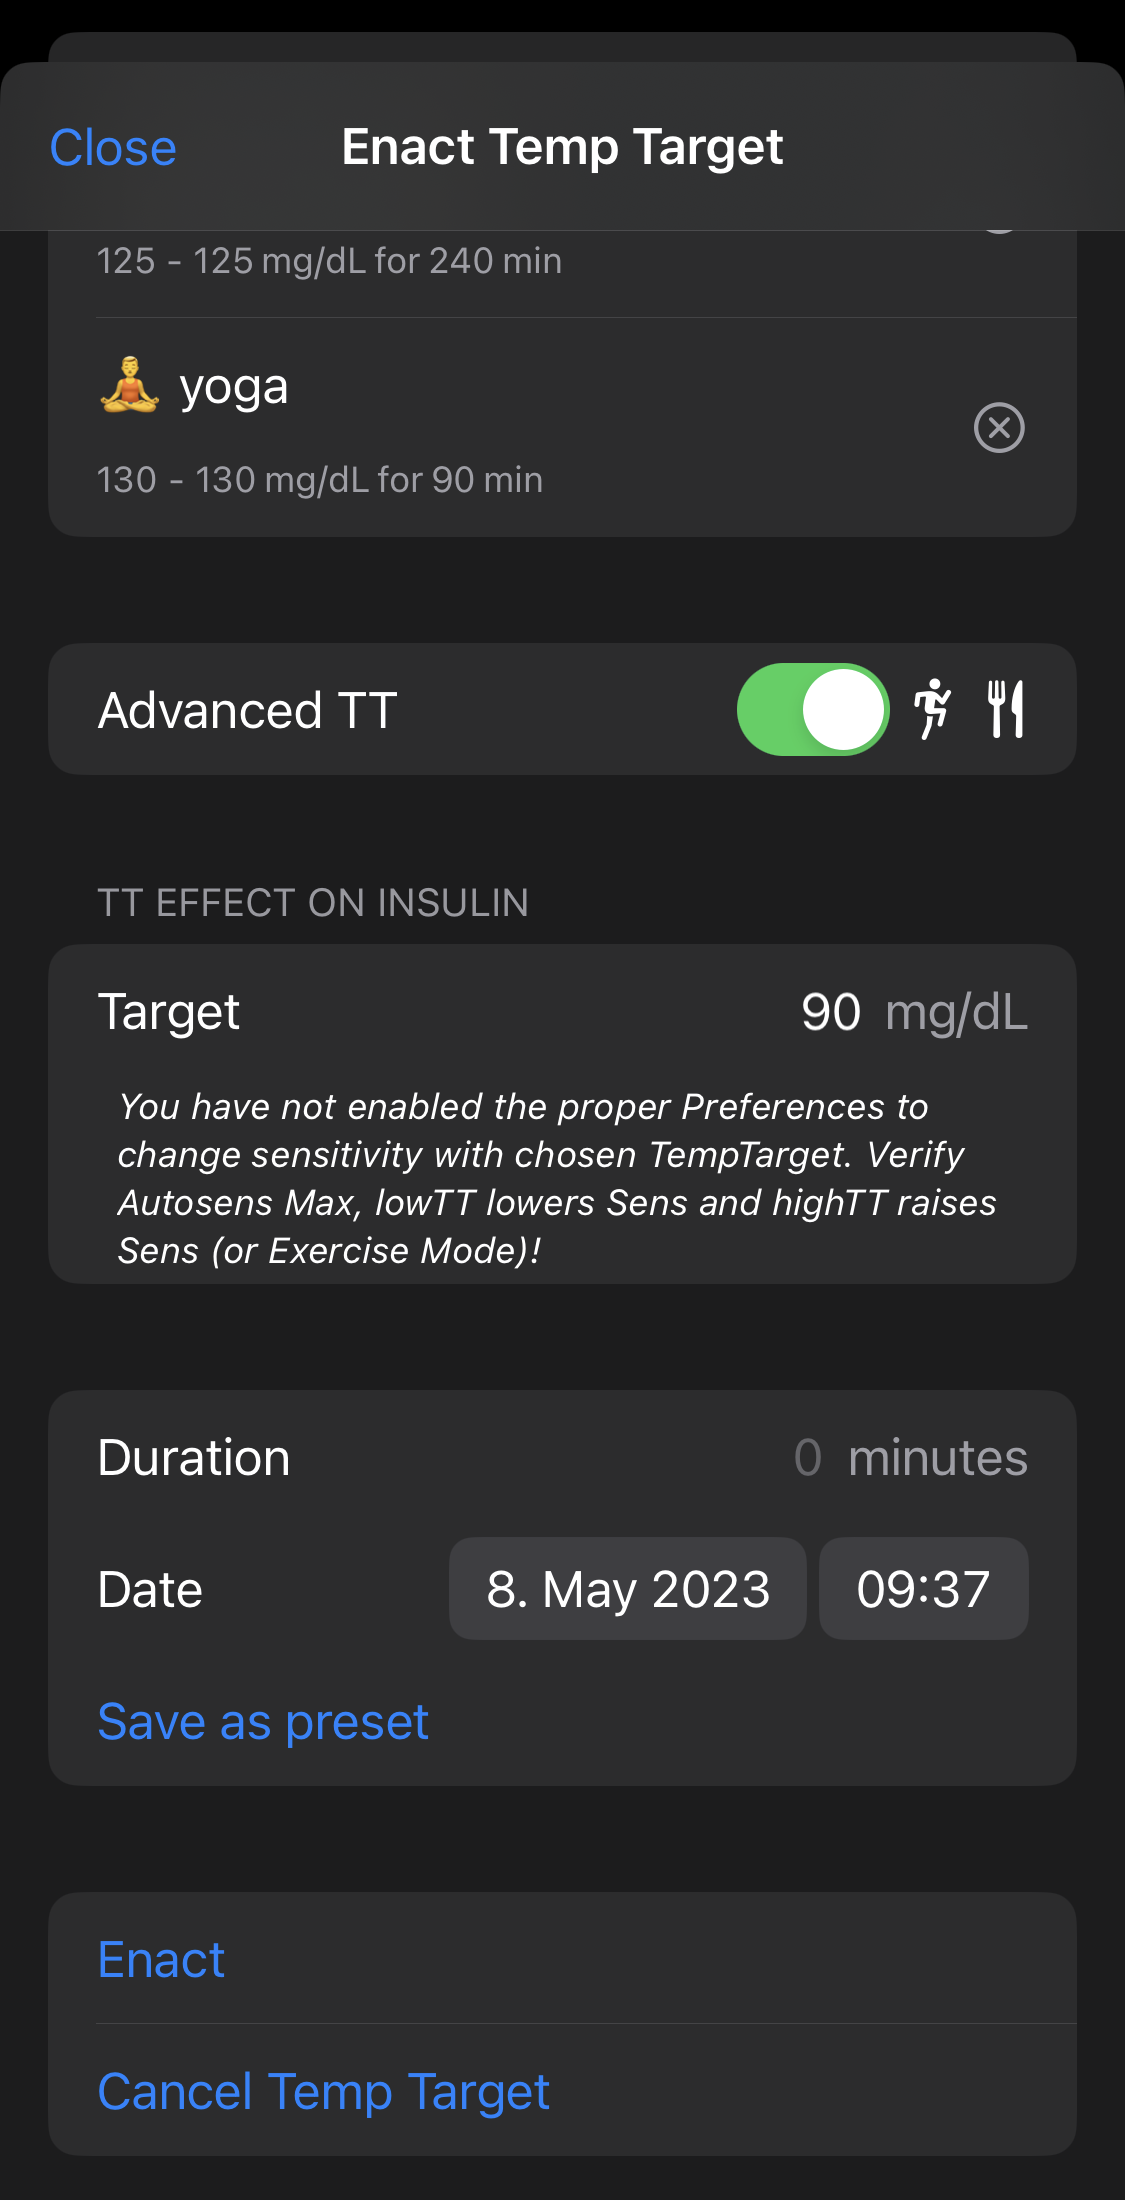
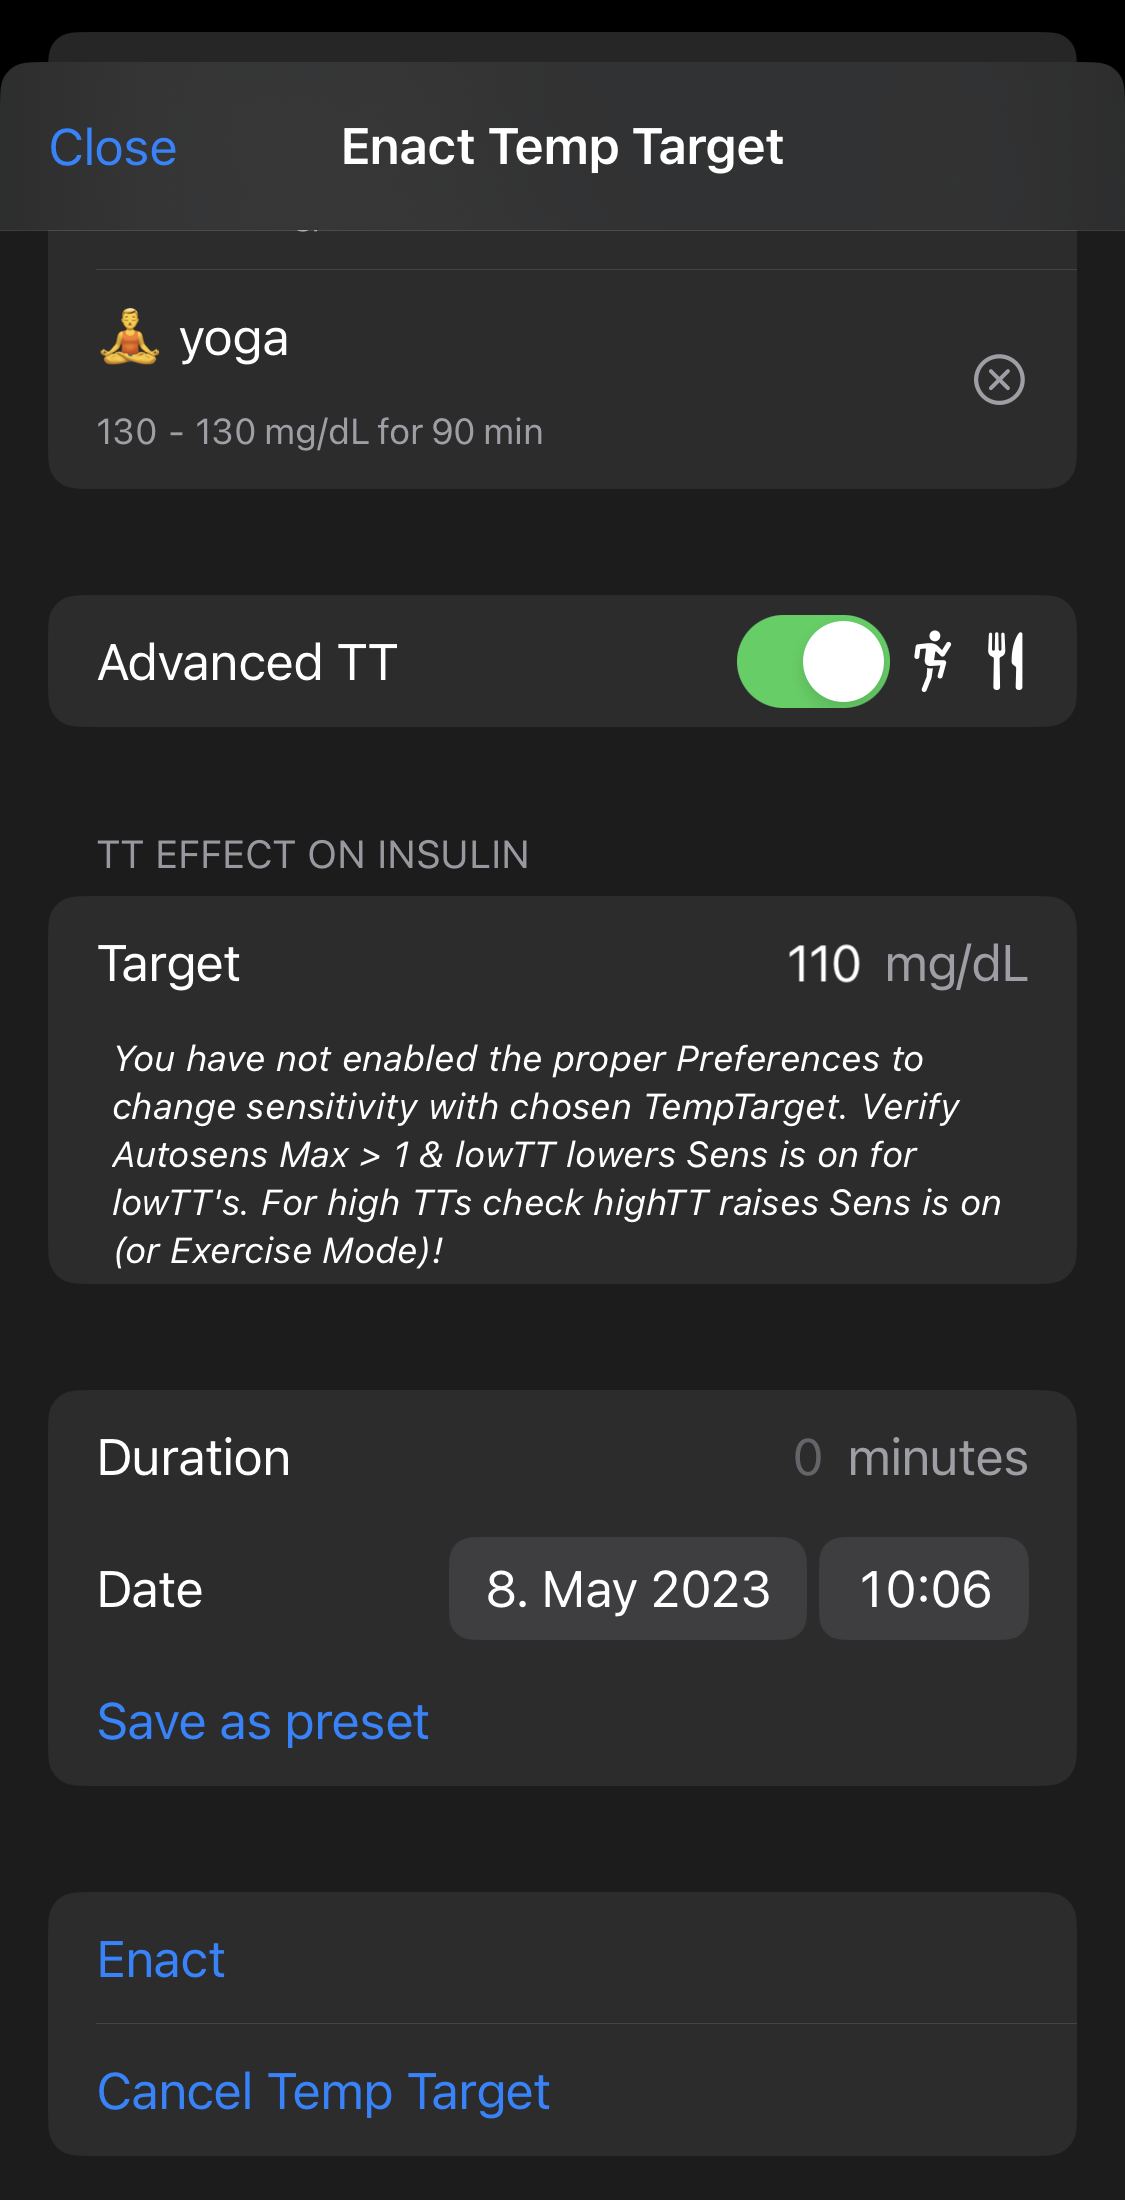
check hTTrSens and such for adv.TTs

diff --git a/FreeAPS/Sources/Modules/AddTempTarget/View/AddTempTargetRootView.swift b/FreeAPS/Sources/Modules/AddTempTarget/View/AddTempTargetRootView.swift
@@ -83,7 +83,7 @@ extension AddTempTarget {
                                 .font(.caption).italic()
                             } else {
                                 Text(
-                                    "You have not enabled the proper Preferences to change sensitivity with chosen TempTarget. Verify Autosens Max, lowTT lowers Sens and highTT raises Sens (or Exercise Mode)!"
+                                    "You have not enabled the proper Preferences to change sensitivity with chosen TempTarget. Verify Autosens Max > 1 & lowTT lowers Sens is on for lowTT's. For high TTs check highTT raises Sens is on (or Exercise Mode)!"
                                 )
                                 // .foregroundColor(.loopRed)
                                 .font(.caption).italic()
@@ -220,7 +220,11 @@ extension AddTempTarget {
             if state.units == .mmolL {
                 target = Decimal(round(Double(state.low.asMgdL))) }
             if target == 0 { return minSens }
-            if target < 100 { minSens = 100 }
+            if target < 100 ||
+                (
+                    !state.settingsManager.preferences.highTemptargetRaisesSensitivity && !state.settingsManager.preferences
+                        .exerciseMode
+                ) { minSens = 100 }
             return minSens
         }
 
@@ -230,7 +234,7 @@ extension AddTempTarget {
             if target == 0 { return maxSens }
             if state.units == .mmolL {
                 target = Decimal(round(Double(state.low.asMgdL))) }
-            if target > 100 { maxSens = 100 }
+            if target > 100 || !state.settingsManager.preferences.lowTemptargetLowersSensitivity { maxSens = 100 }
             return maxSens
         }
     }
